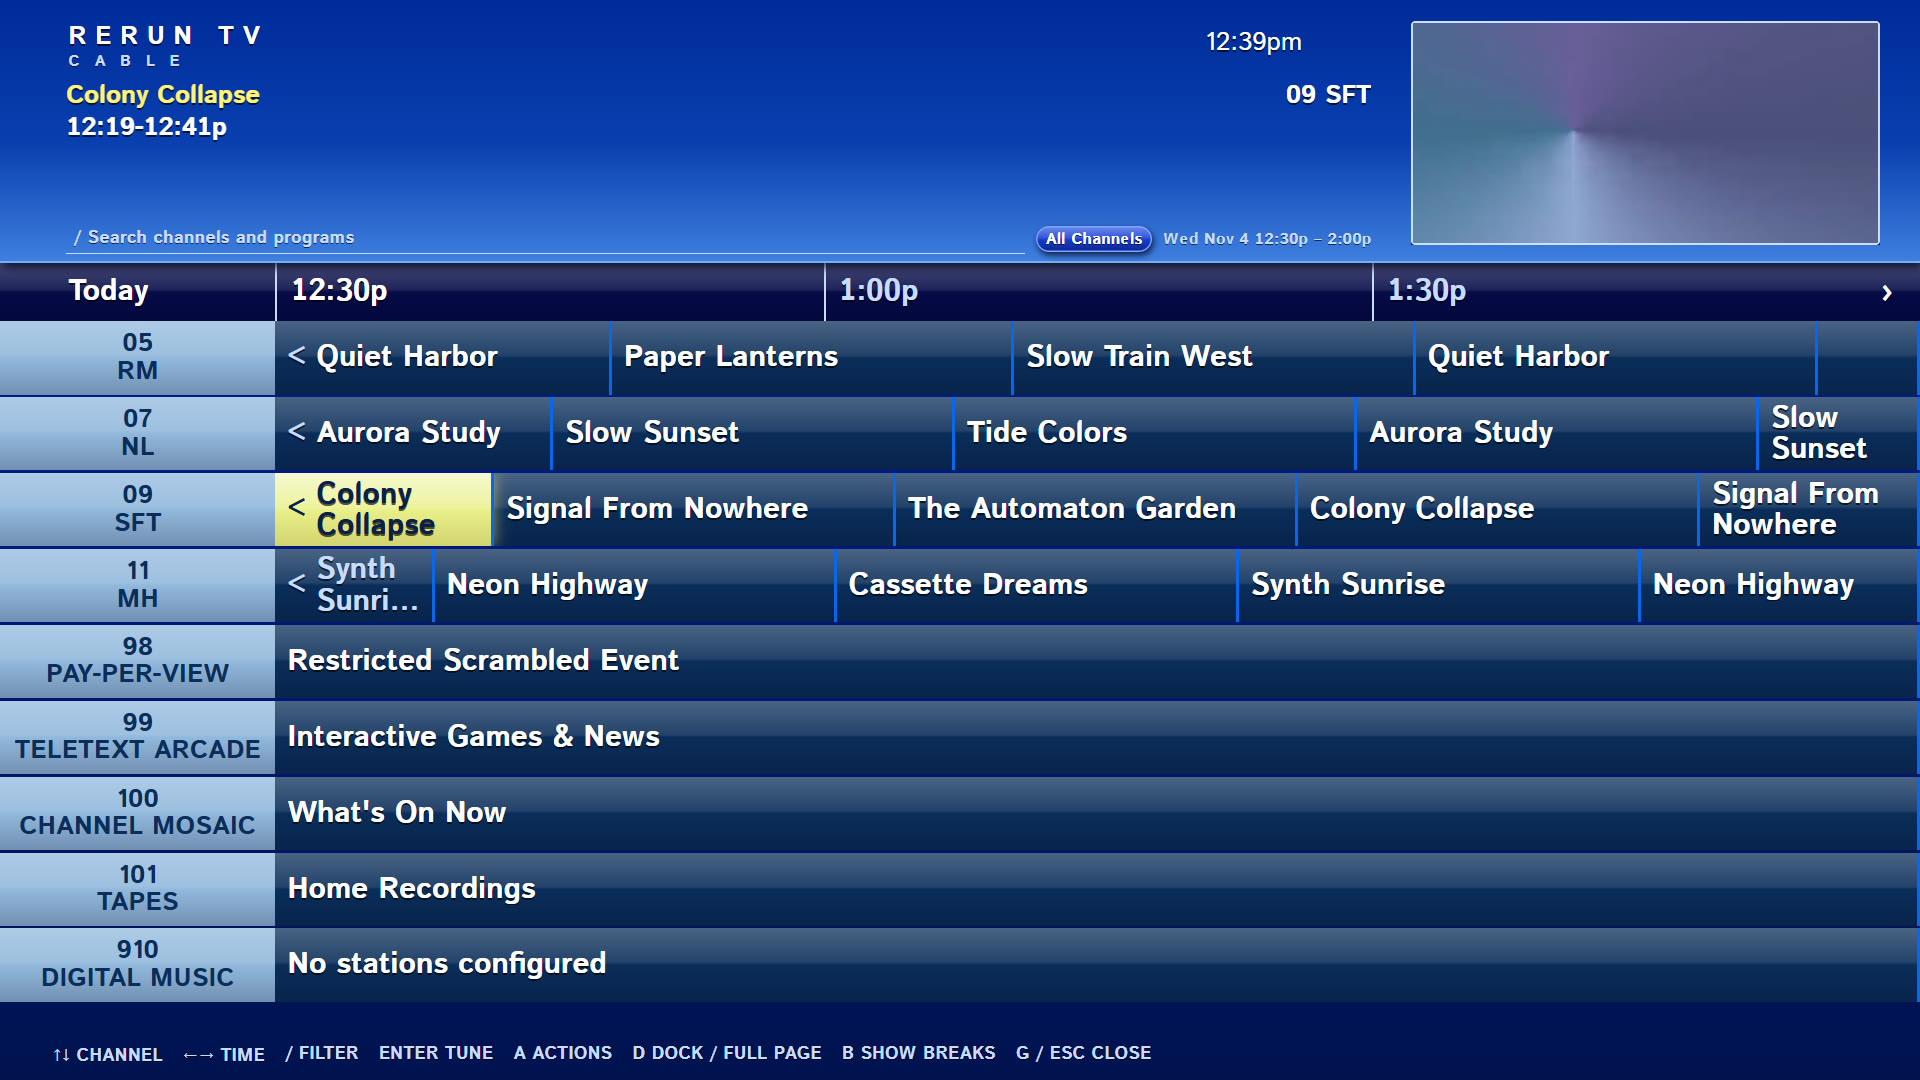
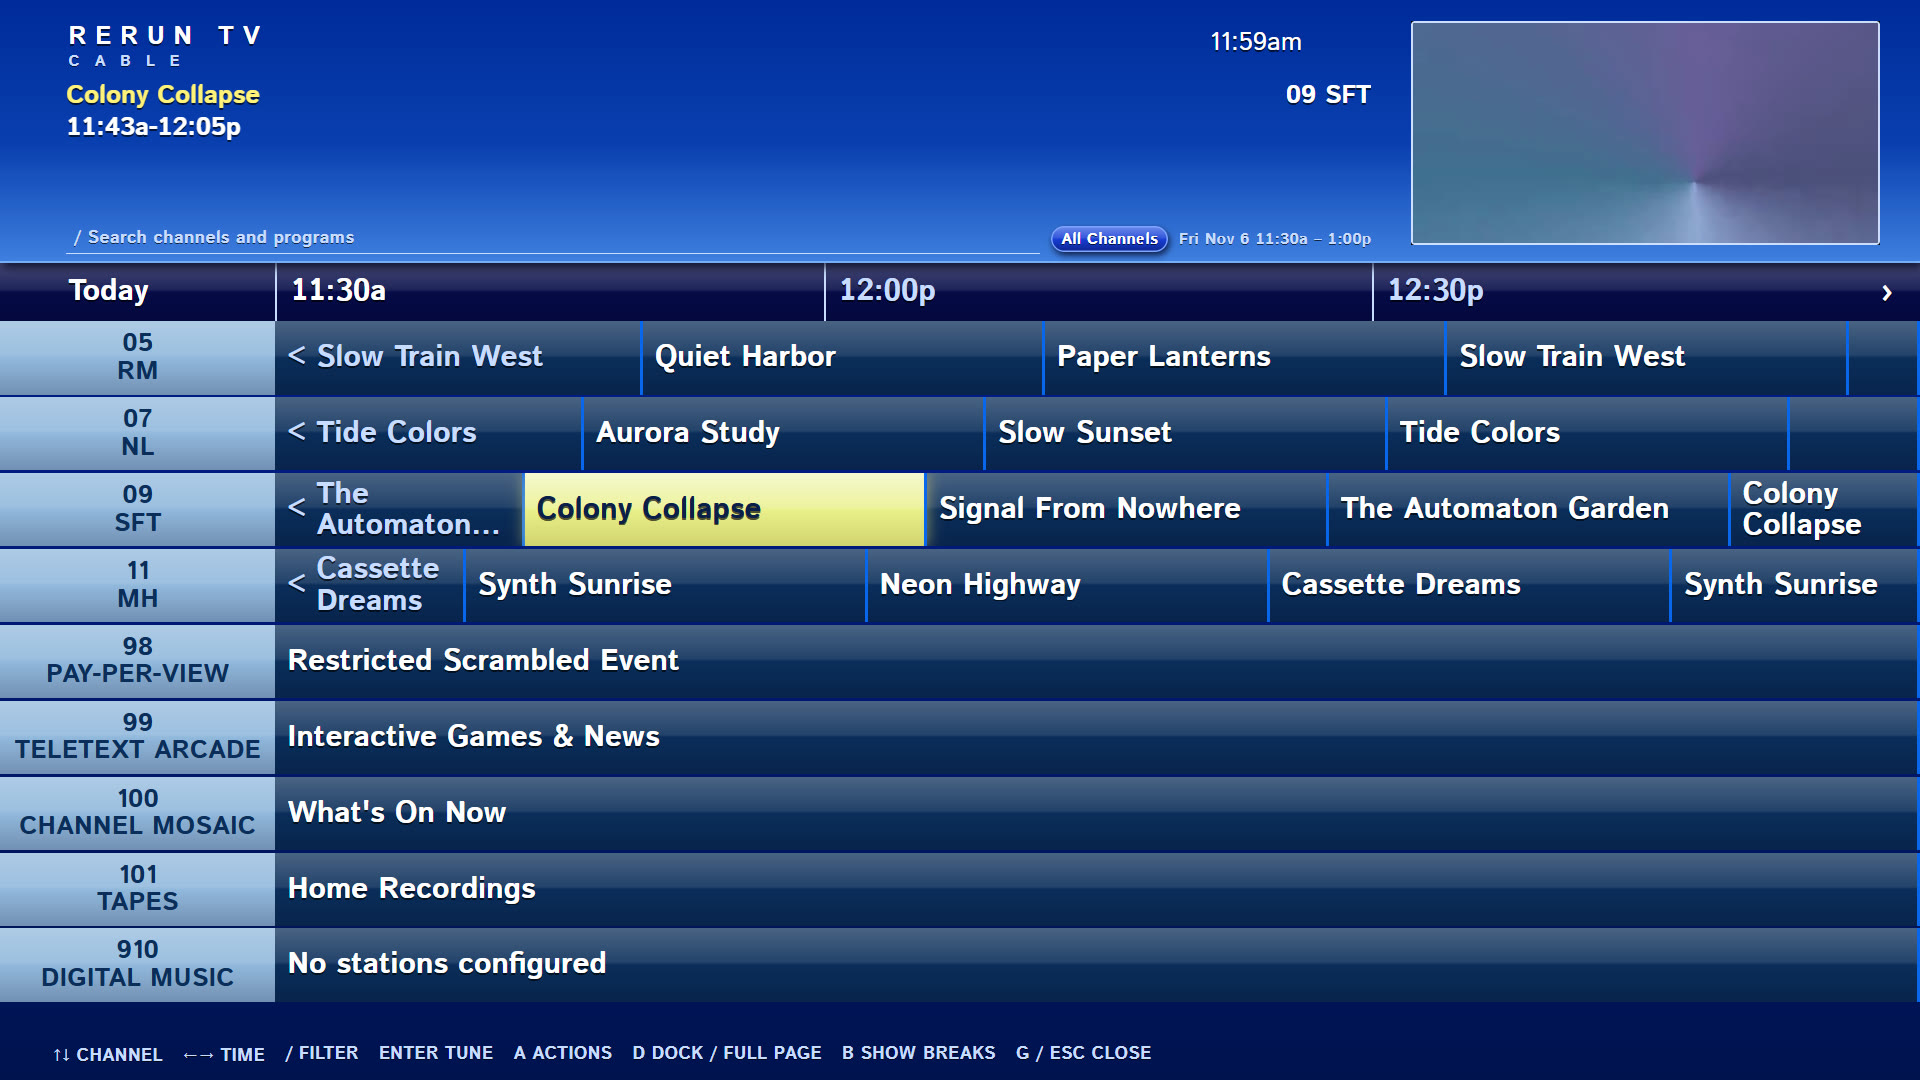
RerunTV page: fresh screenshots and more website links
- Re-captured all five screenshots from today's build with the repo's
  capture script and synthetic demo library: setup shows the
  restructured sections, the time machine shows break navigation.
- Link the RerunTV website under the screenshots and in the
  "Can I try it?" answer, alongside the Releases page.

diff --git a/src/Pages/Games/RerunTV.js b/src/Pages/Games/RerunTV.js
@@ -117,7 +117,13 @@ const FAQ = [
   ['Did you write the code yourself?', 'An AI coding agent wrote almost all of it under my direction. My contribution is the product vision, architecture and design docs, the invariants and quality gates, testing and release decisions, and the security and legal diligence. The repo says this plainly.'],
   ['Is it production ready?', 'It is a public beta. The installers are unsigned (Windows shows a warning), there is no external audit, and Windows is the only packaged desktop platform.'],
   ['What would you do differently or next?', 'See "What I would do next" above.'],
-  ['Can I try it?', 'Download the installer and the demo-library zip from the Releases page. The demo media is generated test video, nothing copyrighted.'],
+  ['Can I try it?', <>
+    Download the installer from the{' '}
+    <a href={SITE_URL} target="_blank" rel="noopener noreferrer">RerunTV website</a>, or grab it and the
+    demo-library zip from the{' '}
+    <a href={`${REPO_URL}/releases`} target="_blank" rel="noopener noreferrer">Releases page</a>. The demo
+    media is generated test video, nothing copyrighted.
+  </>],
 ];
 
 const outlinedButton = {
@@ -244,7 +250,8 @@ function RerunTV() {
               </figure>
             </div>
             <p className="rtv-desc" style={{ marginTop: '1rem', fontSize: '0.9rem' }}>
-              All screenshots show synthetic demo content only.
+              All screenshots show synthetic demo content only. For a page per feature, see the{' '}
+              <a href={SITE_URL} target="_blank" rel="noopener noreferrer">RerunTV website</a>.
             </p>
           </div>
 
